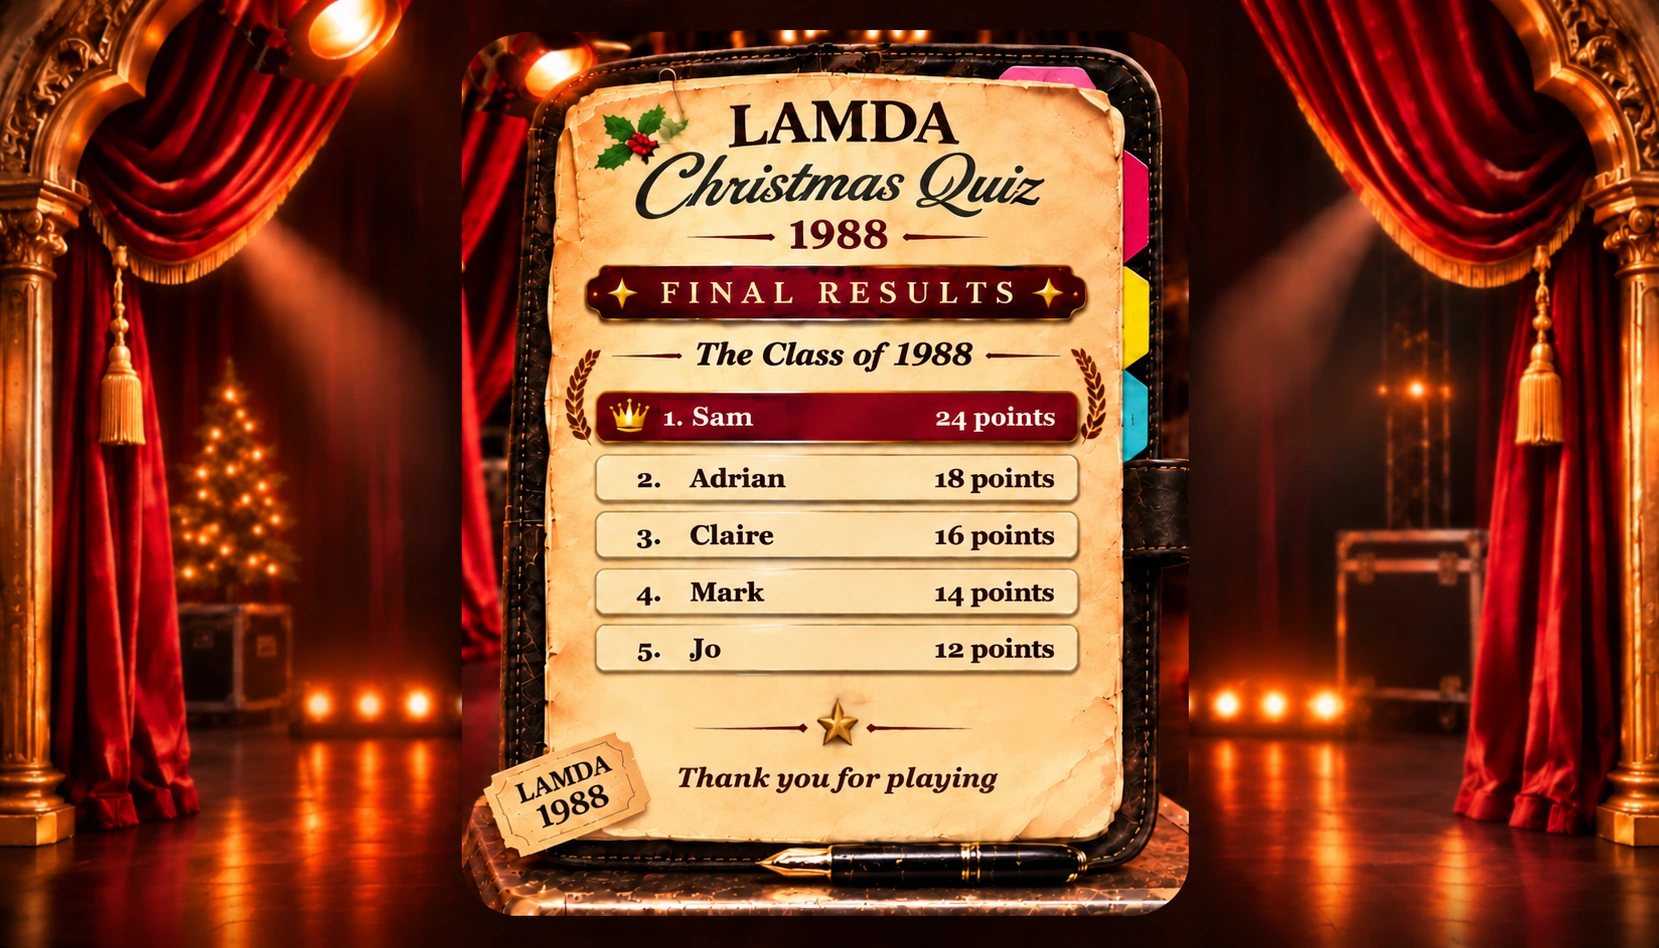
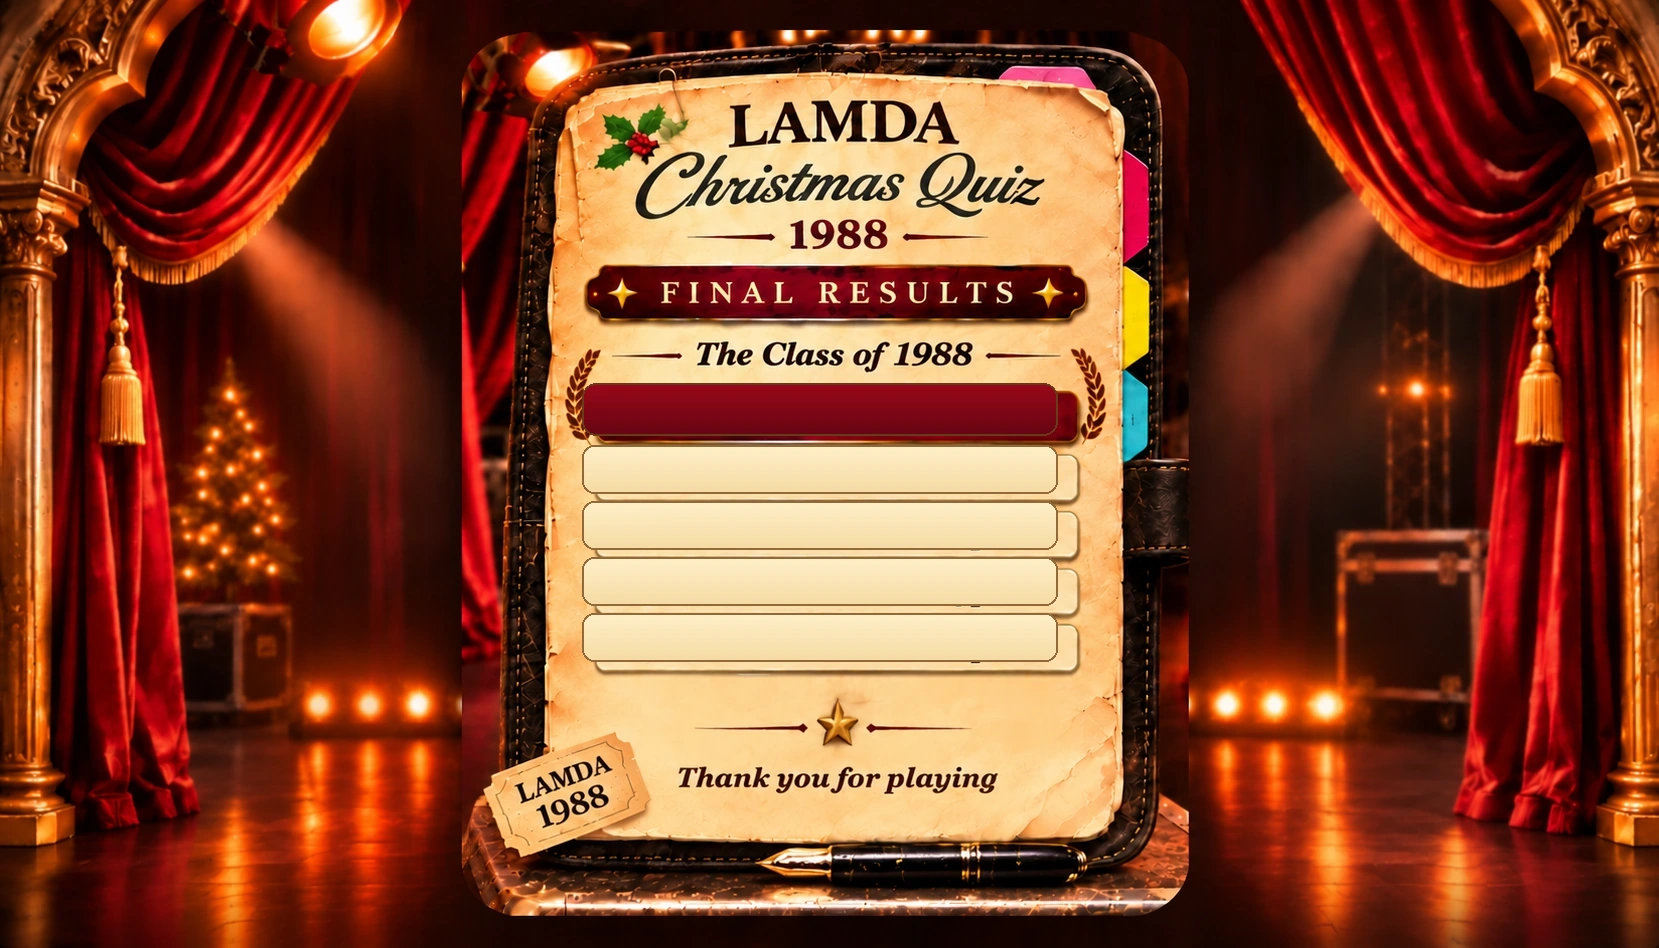
Add files via upload

Changed region(s): [[0.3382, 0.3977, 0.6456, 0.7036]]

diff --git a/index.html b/index.html
@@ -608,8 +608,7 @@ button:disabled{opacity:.5;cursor:not-allowed}
 
 
 
-/* BESPOKE CONTESTANT FINAL SCREEN.
-   Uses its own complete illustrated artwork; the host results artwork is untouched. */
+/* CONTESTANT RESULTS — live scores occupy clean, artwork-integrated rows. */
 .player-results-screen{
   position:relative;
   width:100%;
@@ -618,17 +617,18 @@ button:disabled{opacity:.5;cursor:not-allowed}
   min-height:100dvh;
   overflow:hidden;
   display:block;
-  background:#1a0908 url("assets/player-results-bespoke.webp") center center / cover no-repeat;
+  background:#16070a url("assets/player-results-bespoke.webp") center center / cover no-repeat;
 }
 .player-results-list{
   position:absolute;
-  left:34.2%;
-  top:39.7%;
-  width:28.5%;
-  height:43.2%;
+  left:35.1%;
+  top:40.4%;
+  width:28.6%;
+  height:29.2%;
   display:grid;
-  grid-template-rows:repeat(8,minmax(0,1fr));
-  gap:1.15%;
+  grid-template-columns:1fr;
+  grid-template-rows:repeat(5,minmax(0,1fr));
+  gap:1.2%;
   overflow-y:auto;
   overscroll-behavior:contain;
   scrollbar-width:thin;
@@ -639,17 +639,16 @@ button:disabled{opacity:.5;cursor:not-allowed}
 .player-results-list li{
   min-height:0;
   display:grid;
-  grid-template-columns:9% minmax(0,1fr) auto;
+  grid-template-columns:10% minmax(0,1fr) auto;
   align-items:center;
-  gap:2%;
-  padding:0 3.5%;
+  gap:1.5%;
+  padding:0 3%;
   color:#4b2414;
-  font:700 clamp(11px,1.25vw,22px)/1 Georgia,'Times New Roman',serif;
+  font:700 clamp(10px,1.05vw,19px)/1 Georgia,'Times New Roman',serif;
   white-space:nowrap;
 }
 .player-results-list li:first-child{
-  color:#7b2118;
-  text-shadow:none;
+  color:#fff0cb;
   font-weight:800;
 }
 .player-results-list .results-player{
@@ -659,65 +658,45 @@ button:disabled{opacity:.5;cursor:not-allowed}
 }
 .player-results-list .results-points{
   white-space:nowrap;
-  font-size:.88em;
+  font-size:.9em;
 }
-@media(max-width:700px){
-  .player-results-screen{
-    background-position:center center;
-  }
-  .player-results-list{
-    left:31.5%;
-    top:39.6%;
-    width:37%;
-    height:43.5%;
-    gap:1%;
-  }
-  .player-results-list li{
-    font-size:clamp(10px,2.1vw,17px);
-    grid-template-columns:8% minmax(0,1fr) auto;
-    gap:1.5%;
-    padding:0 2.5%;
-  }
-}
-@media(max-width:420px){
-  .player-results-list{
-    left:30.8%;
-    width:38.4%;
-  }
-  .player-results-list li{
-    font-size:clamp(9px,2.5vw,13px);
-  }
-}
-
-
-/* PLAYER RESULTS PORTRAIT COMPANION */
 @media(max-width:700px) and (orientation:portrait){
   .player-results-screen{
     min-height:100svh;
     min-height:100dvh;
-    background-image:url("assets/player-results-portrait.webp");
-    background-position:center center;
-    background-size:100% 100%;
-    background-repeat:no-repeat;
+    background:#16070a url("assets/player-results-portrait.webp") center center / 100% 100% no-repeat;
   }
   .player-results-list{
-    left:21%;
-    top:38%;
-    width:58%;
-    height:23.2%;
-    grid-template-rows:repeat(8,minmax(0,1fr));
-    gap:1%;
+    left:17%;
+    top:46.1%;
+    width:54.6%;
+    height:20.4%;
+    grid-template-rows:repeat(5,minmax(0,1fr));
+    gap:1.3%;
   }
   .player-results-list li{
-    font-size:clamp(10px,2.55vw,15px);
-    grid-template-columns:8% minmax(0,1fr) auto;
+    font-size:clamp(10px,2.4vw,16px);
+    grid-template-columns:10% minmax(0,1fr) auto;
     gap:1.5%;
-    padding:0 2%;
+    padding:0 3%;
   }
 }
 @media(max-width:390px) and (orientation:portrait){
-  .player-results-list{left:20.5%;width:59%;top:38%;height:23.2%;grid-template-rows:repeat(8,minmax(0,1fr))}
-  .player-results-list li{font-size:clamp(9px,2.7vw,12px)}
+  .player-results-list{
+    left:17%;
+    width:54.6%;
+    top:46.1%;
+    height:20.4%;
+  }
+  .player-results-list li{font-size:clamp(9px,2.6vw,13px)}
+}
+@media(max-width:700px) and (orientation:landscape){
+  .player-results-screen{
+    background:#16070a url("assets/player-results-bespoke.webp") center center / contain no-repeat;
+  }
+  .player-results-list{
+    left:35.1%;top:40.4%;width:28.6%;height:29.2%;
+  }
 }
 
 </style>
